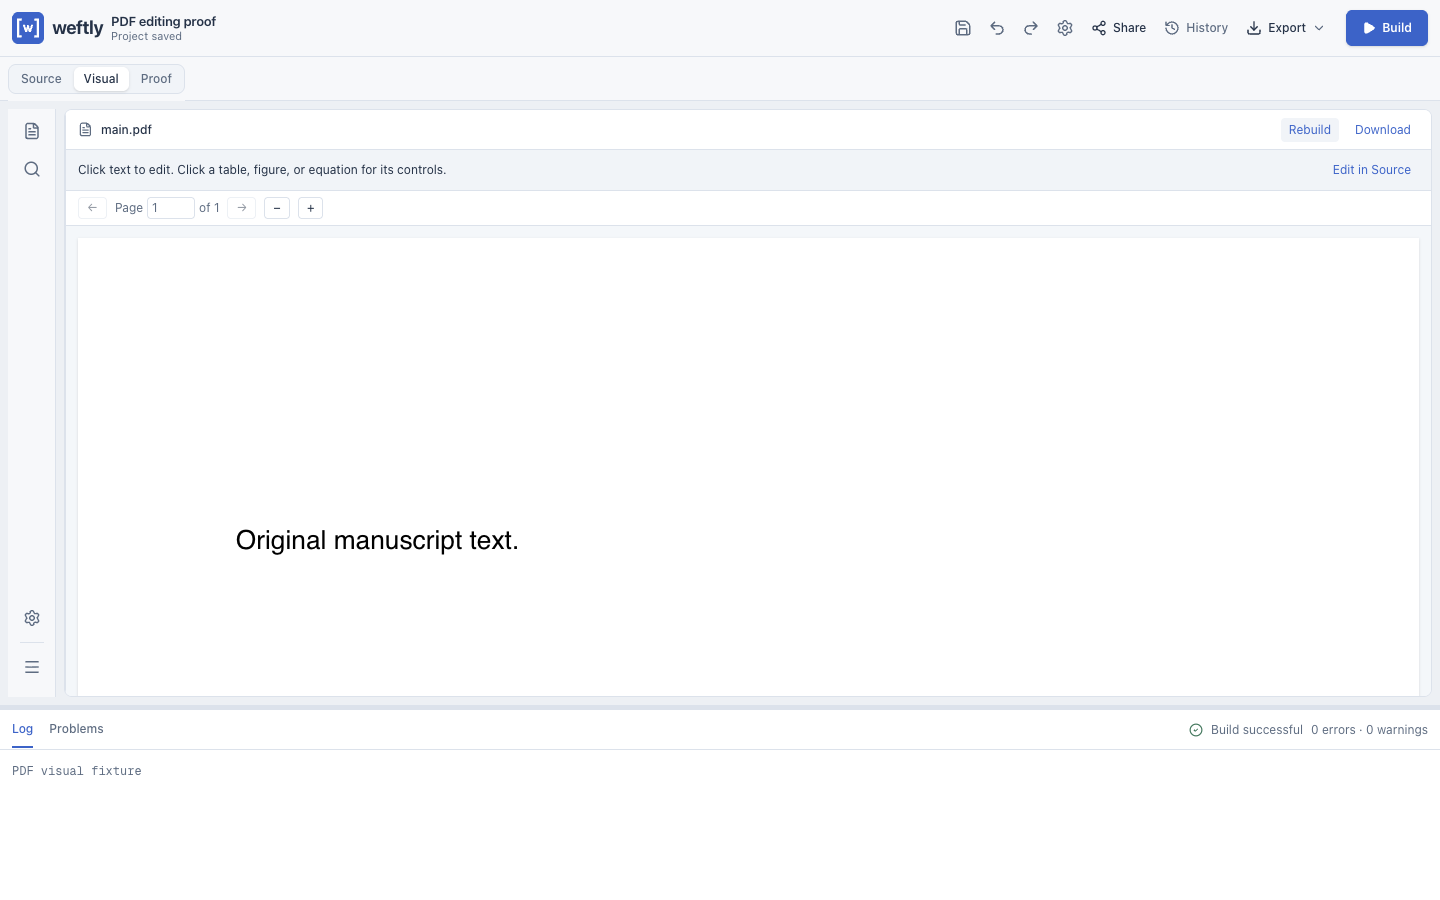
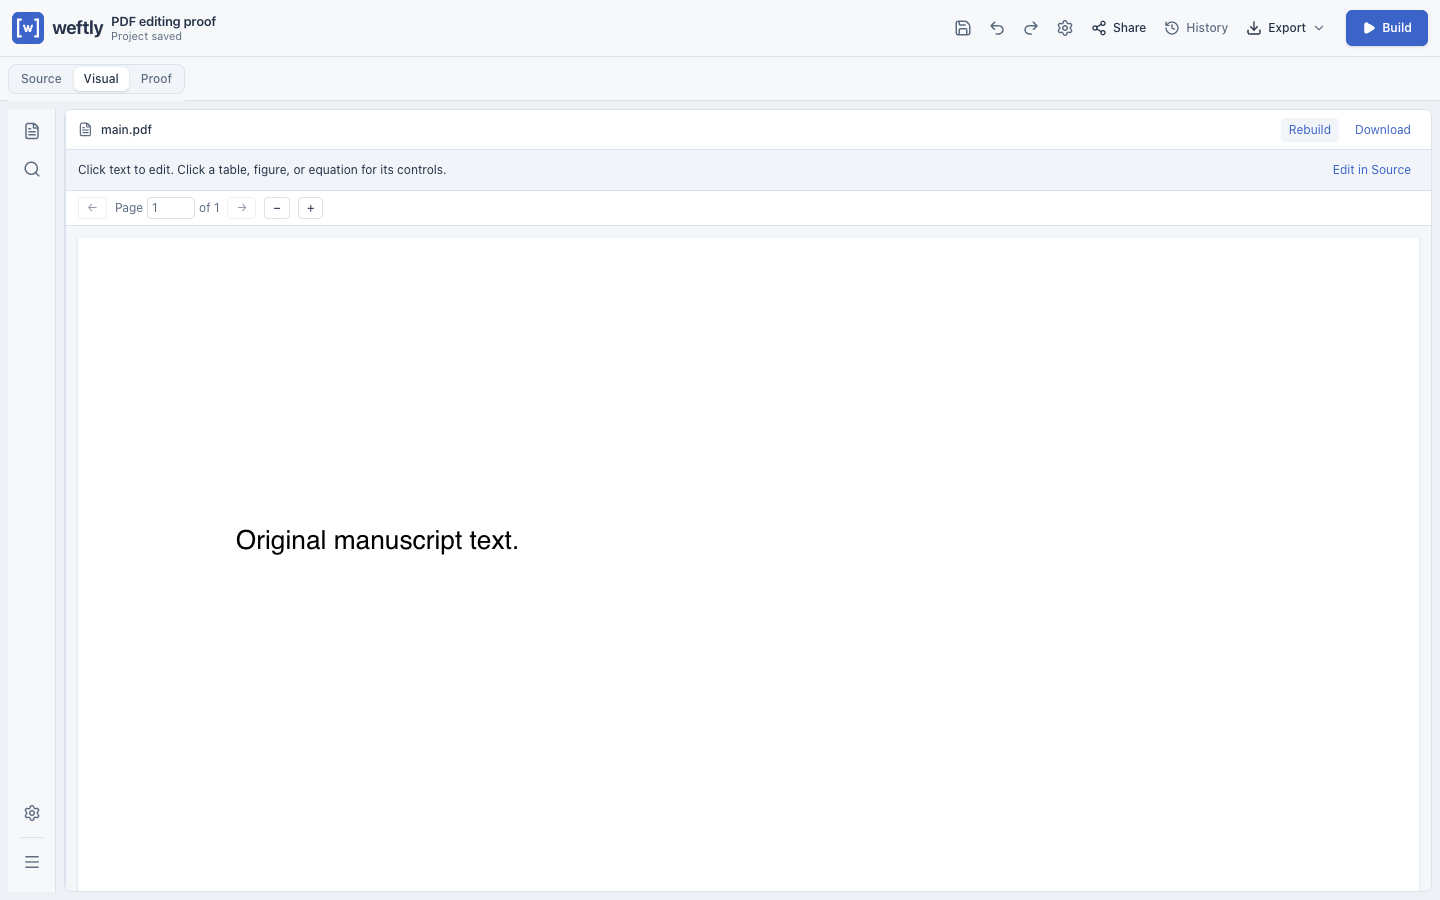
Match typeset punctuation and retain exact source for unchanged PDF drafts

Changed region(s): [[0.0, 0.7778, 1.0, 0.8711]]

diff --git a/apps/web/src/lib/pdfVisualRegions.ts b/apps/web/src/lib/pdfVisualRegions.ts
@@ -11,7 +11,14 @@ export type PdfTextRegion = {
   height: number;
   fontSize: number;
 };
-const normalized = (text: string) => text.normalize("NFKC").replace(/\s+/g, "");
+const normalized = (text: string) =>
+  text
+    .normalize("NFKC")
+    .replace(/``|''|[“”]/g, '"')
+    .replace(/[‘’]/g, "'")
+    .replace(/—/g, "---")
+    .replace(/–/g, "--")
+    .replace(/\s+/g, "");
 
 /** Require both the actual PDF text and nearby source coordinates, never nearest-line alone. */
 export function buildPdfTextRegions(
@@ -42,6 +49,14 @@ export function buildPdfTextRegions(
       let text = "";
       for (let end = start; end < Math.min(runs.length, start + 128); end++) {
         text += normalized(runs[end].text);
+        // A line-end discretionary hyphen is not part of the source word.
+        if (
+          !target.startsWith(text) &&
+          text.endsWith("-") &&
+          runs[end + 1]?.top > runs[end].top + runs[end].height / 2 &&
+          target.startsWith(text.slice(0, -1))
+        )
+          text = text.slice(0, -1);
         if (!target.startsWith(text)) break;
         if (text !== target) continue;
         const group = runs.slice(start, end + 1);

diff --git a/apps/web/src/lib/pdfVisualRegions.test.ts b/apps/web/src/lib/pdfVisualRegions.test.ts
@@ -103,4 +103,23 @@ describe("PDF text region proof", () => {
     });
     expect(buildPdfTextRegions(blocks, layout, mapping())).toHaveLength(0);
   });
+  it("matches TeX punctuation and discretionary line-end hyphens without changing source", () => {
+    const source = "We don't stop -- scientific writing.";
+    const blocks = buildPdfTextBlocks({ "main.tex": source });
+    const page = {
+      ...layout,
+      textRuns: [
+        {
+          text: "We don’t stop – scien-",
+          left: 70,
+          top: 100,
+          width: 180,
+          height: 12,
+        },
+        { text: "tific writing.", left: 70, top: 115, width: 80, height: 12 },
+      ],
+    };
+    const [region] = buildPdfTextRegions(blocks, page, mapping());
+    expect(region.block.source).toBe(source);
+  });
 });

diff --git a/apps/web/e2e/manuscript-objects.spec.ts b/apps/web/e2e/manuscript-objects.spec.ts
@@ -301,6 +301,7 @@ test("subfigure ordering follows panel edits through Cancel, undo, redo and relo
   await editor.press("ControlOrMeta+z");
   expect(await exported(page)).toBe(initial);
   await editor.press("ControlOrMeta+Shift+z");
+  await expect(editor).toContainText(String.raw`First moved \& edited`);
   expect(await exported(page)).toBe(expected);
   await page.reload();
   expect(await exported(page)).toBe(expected);

diff --git a/apps/web/src/components/latex-ide/PdfVisualEditor.tsx b/apps/web/src/components/latex-ide/PdfVisualEditor.tsx
@@ -102,6 +102,10 @@ export function PdfVisualEditor({
         throw new Error(
           "The document changed. Your draft is kept here; copy it, then rebuild and reopen the text.",
         );
+      if (draft.text === draft.region.block.text) {
+        setDraft(null);
+        return;
+      }
       const patch = pdfTextReplacement(
         draft.region.block,
         draft.text,
